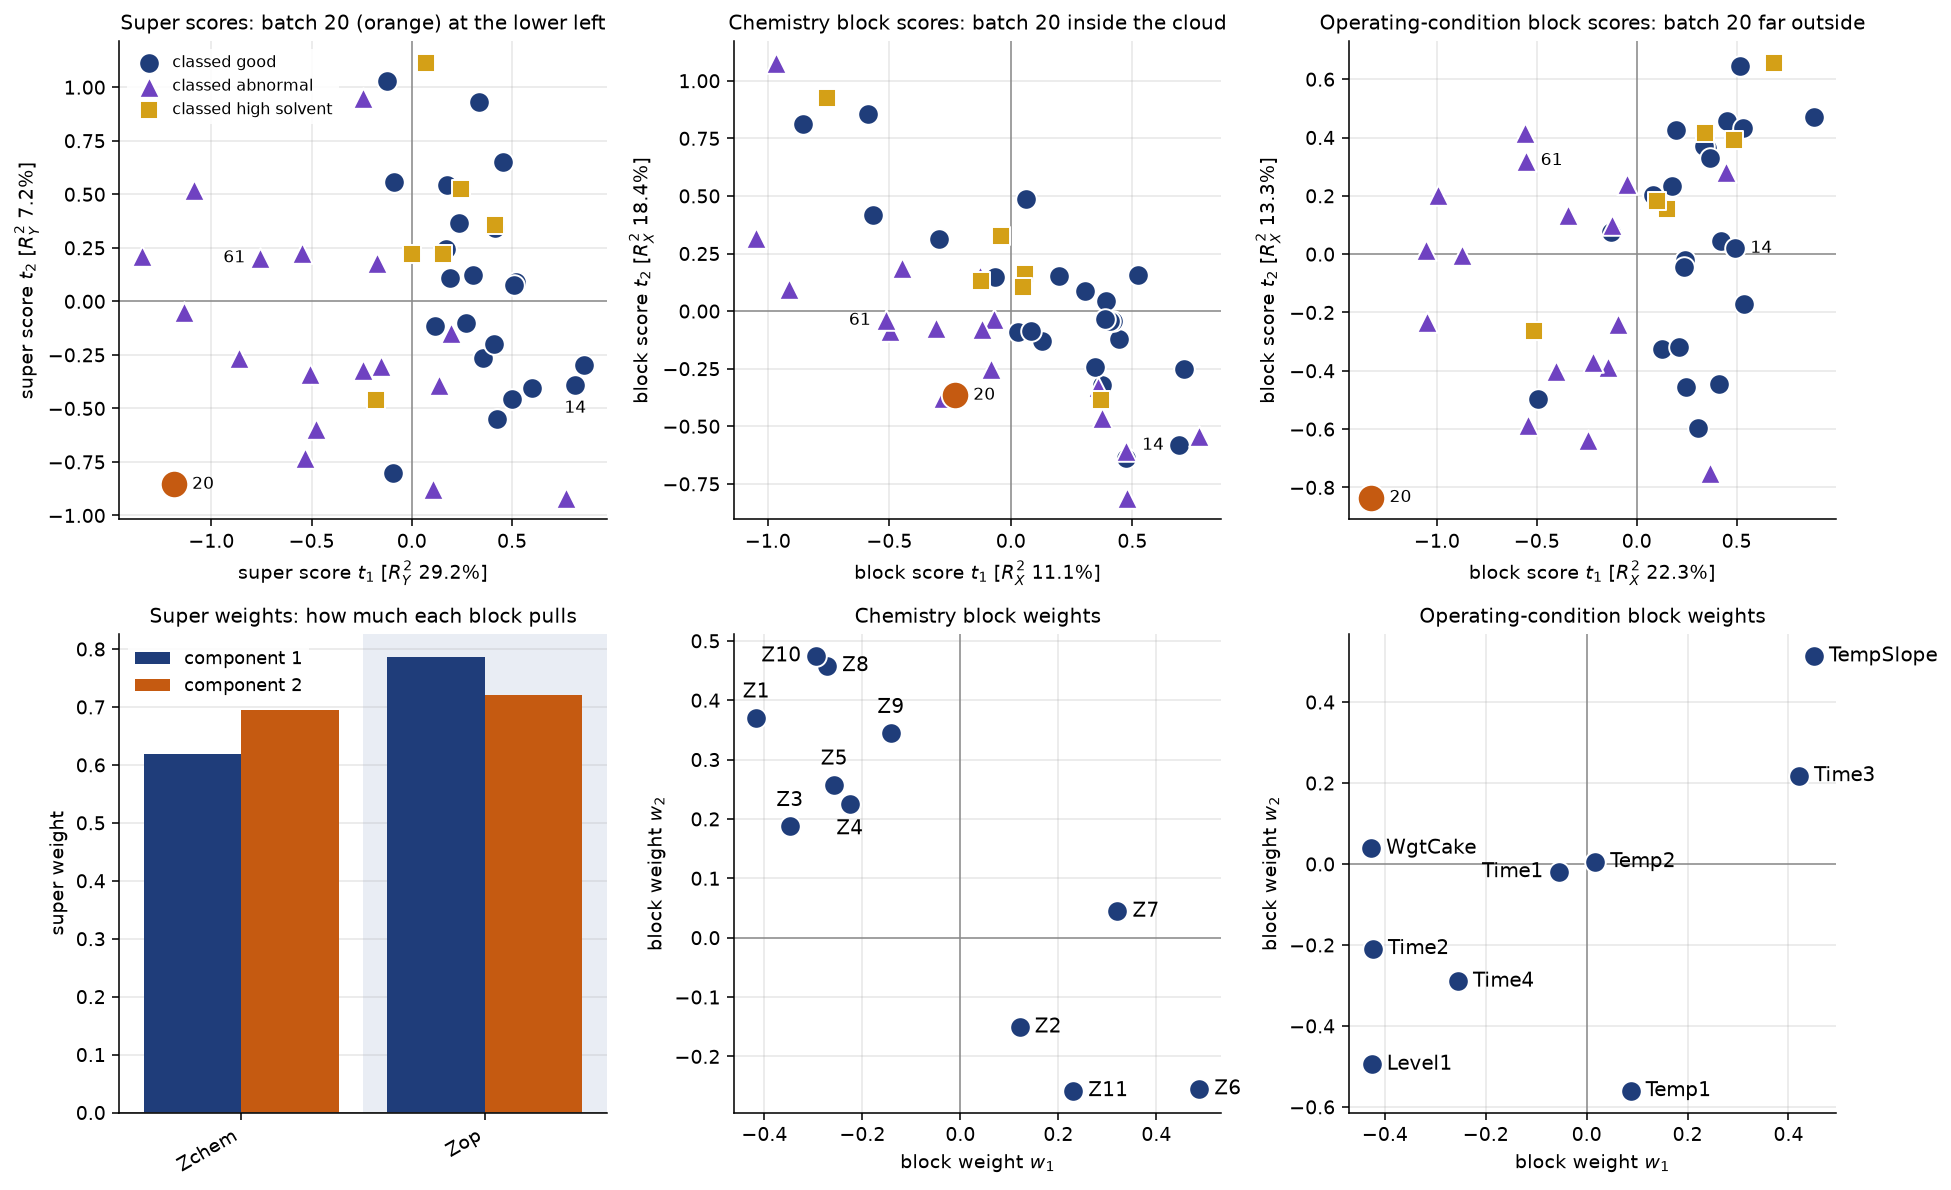
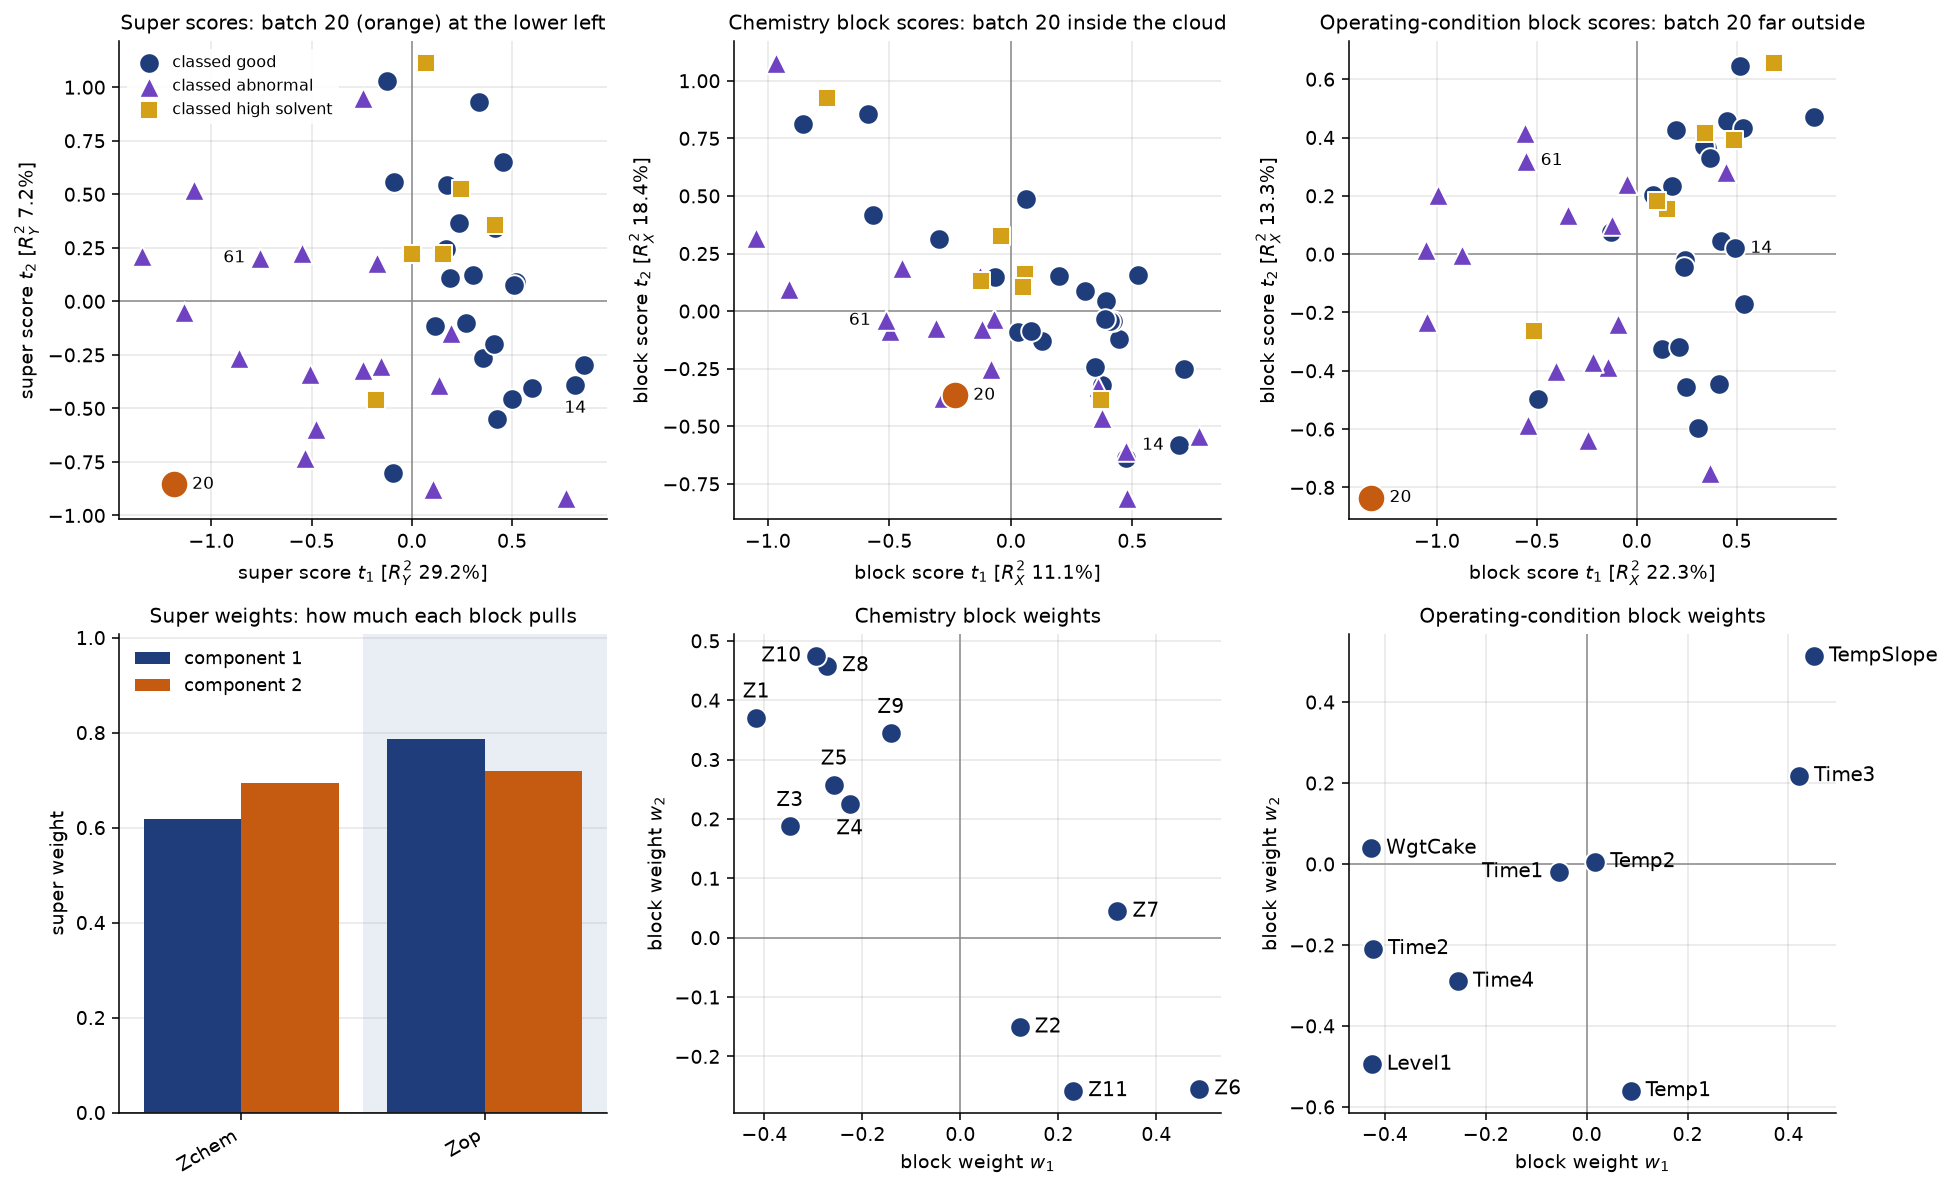
Keep the bar-chart legends off the bars, and say why batch 4 was chosen
The legend of the grouped bar charts was placed with "best", which put
it on the two tallest bars of the super-VIP panel: both showed through
the box. The panels now carry headroom above their tallest bar and the
legend sits in the upper left of it, which is the book's rule that a
legend goes where the data are not.

Three figures are redrawn by that change, and only that: the two
multiblock panels and the quality PCA contributions.

The SBR script's comment on its chosen batch said the trajectories of
batch 4 lie closest to the average. They do not; batch 5's are nearer.
Batch 4 is the batch nearest the average quality, which is what the
chapter says and what the script's own later comment says.

Claude-Session: https://claude.ai/code/session_01LXthGpHLQFfGubBiKFtGAE

diff --git a/batch/batch-case-fmc-figures.py b/batch/batch-case-fmc-figures.py
@@ -83,7 +83,9 @@ def grouped_bars(ax, table, *, colours: list[str], ylabel: str, title: str) -> N
     shade_alternate_tags(ax, n_rows)
     ax.set_ylabel(ylabel)
     ax.set_title(title)
-    ax.legend(loc="best")
+    # "best" put the box on the two tallest bars of the super-VIP panel; give it room above them instead
+    ax.set_ylim(top=ax.get_ylim()[1] * 1.22)
+    ax.legend(loc="upper left")
 
 
 def weight_plot(ax, weights: pd.DataFrame, *, title: str) -> None:

diff --git a/batch/batch-case-sbr-figures.py b/batch/batch-case-sbr-figures.py
@@ -67,7 +67,7 @@ FAULT_FROM_START = 37
 FAULT_PARTWAY = 34
 HIGHLIGHT = {FAULT_PARTWAY: ORANGE, FAULT_FROM_START: AQUA}
 SPE_OUTLIERS = [8, 15, 16]  # flagged by the SPE, and not the batches carrying the injected fault
-AVERAGE_BATCH = 4  # the batch whose trajectories lie closest to the average
+AVERAGE_BATCH = 4  # the batch nearest the average quality
 ATTRIBUTE_COLOURS = {
     "Composition": DARK_BLUE,
     "ParticleSize": ORANGE,
